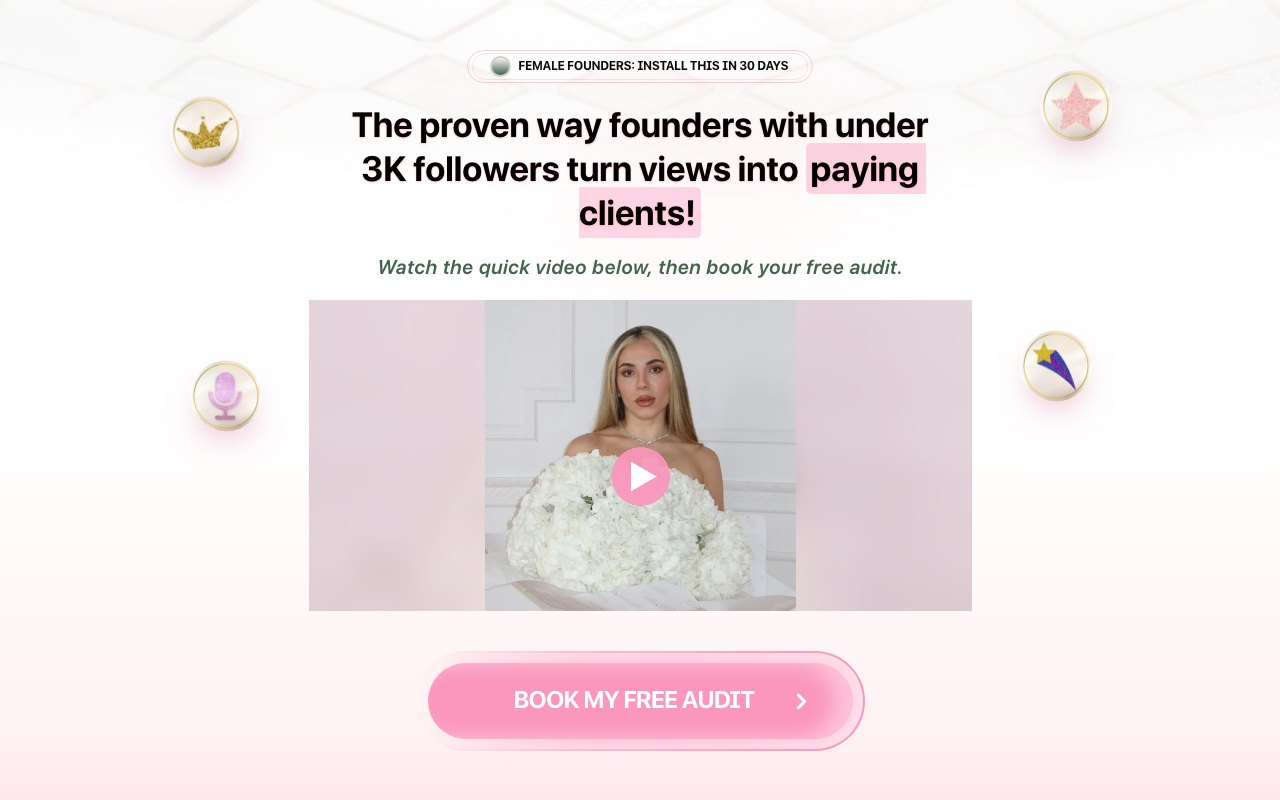
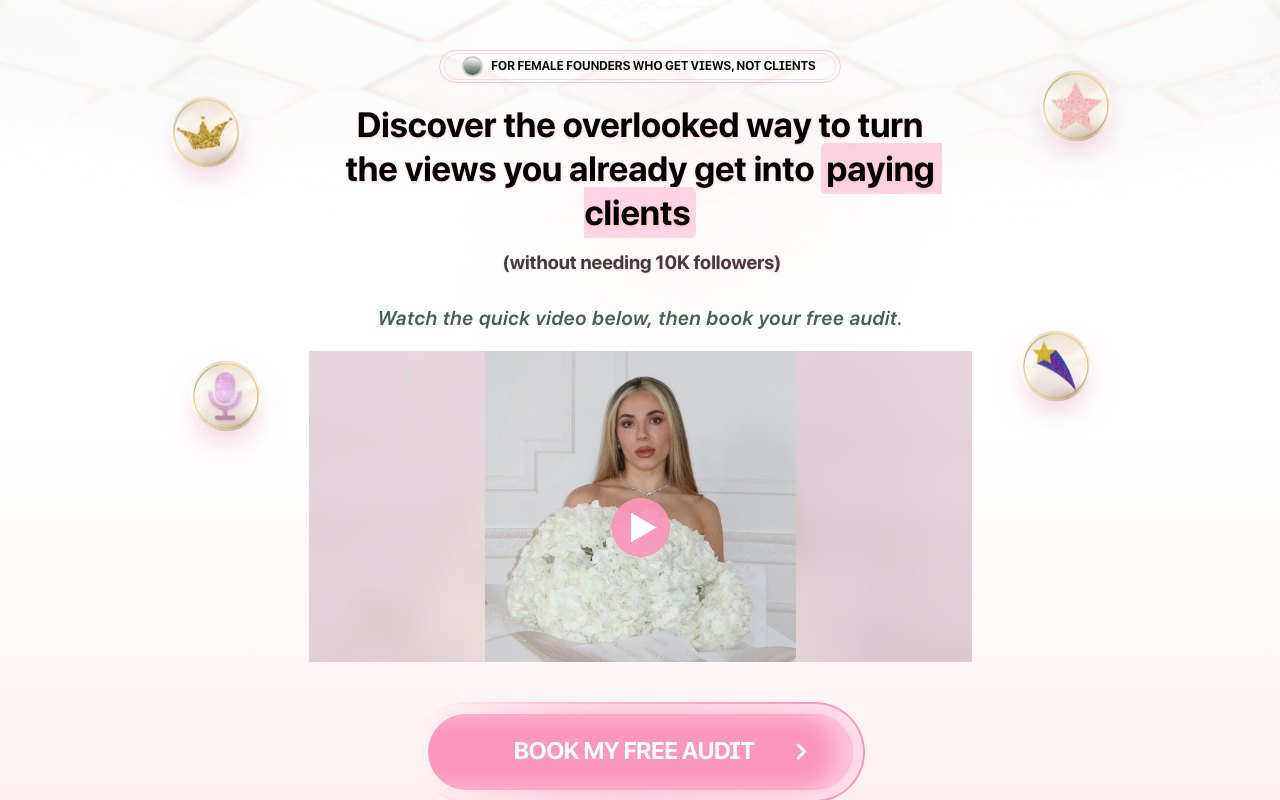
Free audit: Discover-formula headline with without-clause, new eyebrow

diff --git a/free-audit/index.html b/free-audit/index.html
@@ -7,7 +7,7 @@
 	<meta name="viewport" content="width=device-width">
 	<meta name="generator" content="Framer 31f3ac5">
 	<title>Free Audit | Rosie Purr</title>
-    <link rel="canonical" href="#"><meta property="og:url" content="#"><meta name="description" content="The proven way founders with under 3K followers turn views into paying clients. Book your free audit.">
+    <link rel="canonical" href="#"><meta property="og:url" content="#"><meta name="description" content="Discover the overlooked way to turn the views you already get into paying clients (without needing 10K followers).">
     <meta name="framer-search-index" content="https://framerusercontent.com/sites/6yKfBSsuH8x9yH6xJh1cNq/searchIndex-fbUtZZNrOviS.json">
     <meta name="framer-search-index-fallback" content="https://framerusercontent.com/sites/6yKfBSsuH8x9yH6xJh1cNq/searchIndex-cH3Bl6oN5KRv.json">
     <link href="../assets/img/favicon.png" rel="icon" media="(prefers-color-scheme: light)">
@@ -16,12 +16,12 @@
     <!-- Open Graph -->
     <meta property="og:type" content="website">
     <meta property="og:title" content="Free Audit | Rosie Purr">
-    <meta property="og:description" content="The proven way founders with under 3K followers turn views into paying clients. Book your free audit.">
+    <meta property="og:description" content="Discover the overlooked way to turn the views you already get into paying clients (without needing 10K followers).">
     <meta property="og:image" content="https://framerusercontent.com/assets/0qTz0DzgY2VKMYTz5bQiQrwBYk.png">
     <!-- X -->
     <meta name="twitter:card" content="summary_large_image">
     <meta name="twitter:title" content="Free Social Media Course">
-    <meta name="twitter:description" content="The proven way founders with under 3K followers turn views into paying clients. Book your free audit.">
+    <meta name="twitter:description" content="Discover the overlooked way to turn the views you already get into paying clients (without needing 10K followers).">
     <meta name="twitter:image" content="https://framerusercontent.com/assets/0qTz0DzgY2VKMYTz5bQiQrwBYk.png">
 	
 	
@@ -343,7 +343,7 @@
     
     <!-- End of bodyStart -->
 	
-	<div id="main" data-framer-hydrate-v2="{&quot;routeId&quot;:&quot;h5i_oXUbv&quot;,&quot;localeId&quot;:&quot;default&quot;,&quot;breakpoints&quot;:[{&quot;hash&quot;:&quot;4s8koe&quot;,&quot;mediaQuery&quot;:&quot;(min-width: 1200px)&quot;},{&quot;hash&quot;:&quot;uwvbux&quot;,&quot;mediaQuery&quot;:&quot;(min-width: 810px) and (max-width: 1199.98px)&quot;},{&quot;hash&quot;:&quot;iz4sl3&quot;,&quot;mediaQuery&quot;:&quot;(min-width: 414px) and (max-width: 809.98px)&quot;},{&quot;hash&quot;:&quot;1br1e2t&quot;,&quot;mediaQuery&quot;:&quot;(max-width: 413.98px)&quot;}]}" data-framer-ssr-released-at="2026-09-29T13:05:31.037Z" data-framer-page-optimized-at="2026-09-29T19:42:05.962Z" data-framer-generated-page><!--$--><style data-framer-html-style>html body { background: rgb(255, 255, 255); }</style><div data-framer-root class="framer-X8zpi framer-Y1jLK framer-4s8koe" style="min-height:100vh;width:auto"><div class="framer-q2tiia"><div class="framer-1xpcqbd" data-framer-name="bg shape" style="transform:rotate(-43deg)"></div></div><div class="framer-17dakj4 hidden-4s8koe hidden-uwvbux hidden-iz4sl3"><div class="framer-msisua" data-border="true"><div class="framer-1wldt96" data-border="true" data-framer-name="Alert"><div class="framer-14oqm4g" data-framer-name="Pulse"><div class="framer-1hjm7bx" data-framer-name="Small"></div><div class="framer-rq7udd" data-framer-name="Big" style="will-change:transform;opacity:0.4;transform:none"></div></div><div class="framer-1khw9ha" data-framer-component-type="RichTextContainer" style="transform:none"><p dir="auto" style="--font-selector:Q1VTVE9NVjI7U0YgUHJvIERpc3BsYXkgQm9sZA==;--framer-font-family:&quot;SF Pro Display Bold&quot;, &quot;SF Pro Display Bold Placeholder&quot;, sans-serif;--framer-font-open-type-features:'cv01' on, 'cv09' on, 'cv11' on, 'cv05' on, 'ss03' on;--framer-font-size:12px;--framer-font-weight:700;--framer-letter-spacing:0.01em;--framer-text-color:var(--token-b268148b-59de-488b-84bf-ae89da343fe3, rgb(10, 10, 10))" class="framer-text">FEMALE FOUNDERS: INSTALL THIS IN 30 DAYS</p></div></div></div></div><div class="framer-tpus61" data-framer-name="HERO"><div class="framer-1c7eb5z" data-framer-name="UPPERPART"><div class="framer-1u1eqik" data-framer-name="main"><div class="framer-3c9dne"><div class="framer-2tj5pi" data-framer-name="main"><div class="framer-csus2r"><div class="framer-efgnys" data-framer-name="main"><div class="framer-5fq69k hidden-1br1e2t" data-border="true"><div class="framer-k2ezid hidden-iz4sl3" data-border="true" data-framer-name="Alert"><div class="framer-17cyu9v" data-framer-name="Pulse"><div class="framer-1uqd4z8" data-framer-name="Small"></div><div class="framer-vag2ty" data-framer-name="Big" style="will-change:transform;opacity:0.4;transform:none"></div></div><div class="ssr-variant hidden-uwvbux"><div class="framer-bhxyn7" data-framer-component-type="RichTextContainer" style="transform:none"><p dir="auto" style="--font-selector:Q1VTVE9NVjI7U0YgUHJvIERpc3BsYXkgQm9sZA==;--framer-font-family:&quot;SF Pro Display Bold&quot;, &quot;SF Pro Display Bold Placeholder&quot;, sans-serif;--framer-font-open-type-features:'cv01' on, 'cv09' on, 'cv11' on, 'cv05' on, 'ss03' on;--framer-font-size:12px;--framer-font-weight:700;--framer-letter-spacing:0.01em;--framer-text-color:var(--token-b268148b-59de-488b-84bf-ae89da343fe3, rgb(10, 10, 10))" class="framer-text">FEMALE FOUNDERS: INSTALL THIS IN 30 DAYS</p></div></div><div class="ssr-variant hidden-iz4sl3 hidden-1br1e2t hidden-4s8koe"><div class="framer-bhxyn7" data-framer-component-type="RichTextContainer" style="transform:none"><p dir="auto" style="--font-selector:Q1VTVE9NVjI7U0YgUHJvIERpc3BsYXkgQm9sZA==;--framer-font-family:&quot;SF Pro Display Bold&quot;, &quot;SF Pro Display Bold Placeholder&quot;, sans-serif;--framer-font-open-type-features:'cv01' on, 'cv09' on, 'cv11' on, 'cv05' on, 'ss03' on;--framer-font-size:11px;--framer-font-weight:700;--framer-letter-spacing:0.01em;--framer-text-color:var(--token-b268148b-59de-488b-84bf-ae89da343fe3, rgb(10, 10, 10))" class="framer-text">FEMALE FOUNDERS: INSTALL THIS IN 30 DAYS</p></div></div></div><div class="framer-9qt16u hidden-4s8koe hidden-uwvbux" data-border="true"><div class="framer-vjqidj" data-border="true" data-framer-name="Alert"><div class="framer-1y2ulve" data-framer-name="Pulse"><div class="framer-k6xz6w" data-framer-name="Small"></div><div class="framer-11rk619" data-framer-name="Big" style="will-change:transform;opacity:0.4;transform:none"></div></div><div class="framer-1fw6d6x" data-framer-component-type="RichTextContainer" style="transform:none"><p dir="auto" style="--font-selector:Q1VTVE9NVjI7U0YgUHJvIERpc3BsYXkgQm9sZA==;--framer-font-family:&quot;SF Pro Display Bold&quot;, &quot;SF Pro Display Bold Placeholder&quot;, sans-serif;--framer-font-open-type-features:'cv01' on, 'cv09' on, 'cv11' on, 'cv05' on, 'ss03' on;--framer-font-size:12px;--framer-font-weight:700;--framer-letter-spacing:0.01em;--framer-text-color:var(--token-b268148b-59de-488b-84bf-ae89da343fe3, rgb(10, 10, 10))" class="framer-text">FEMALE FOUNDERS: INSTALL THIS IN 30 DAYS</p></div></div></div></div><div class="ssr-variant hidden-iz4sl3 hidden-1br1e2t hidden-uwvbux"><div class="framer-1u7wy1i" data-framer-name="WTITLE2" data-selection="true" data-framer-component-type="RichTextContainer" style="transform:none"><p dir="auto" style="--font-selector:Q1VTVE9NVjI7U0YgUHJvIERpc3BsYXkgQm9sZA==;--framer-font-family:&quot;SF Pro Display Bold&quot;, &quot;SF Pro Display Bold Placeholder&quot;, sans-serif;--framer-font-size:35px;--framer-font-weight:700;--framer-line-height:1.25em;--framer-text-alignment:center" class="framer-text">The proven way founders with under</p><p dir="auto" style="--font-selector:Q1VTVE9NVjI7U0YgUHJvIERpc3BsYXkgQm9sZA==;--framer-font-family:&quot;SF Pro Display Bold&quot;, &quot;SF Pro Display Bold Placeholder&quot;, sans-serif;--framer-font-size:35px;--framer-font-weight:700;--framer-line-height:1.25em;--framer-text-alignment:center" class="framer-text">3K followers turn views into <mark style="--framer-text-background-color:rgb(255, 212, 228);--framer-text-background-padding:5px;--framer-text-background-radius:5px" class="framer-text">paying clients!</mark></p></div></div><div class="ssr-variant hidden-1br1e2t hidden-uwvbux hidden-4s8koe"><div class="framer-1u7wy1i" data-framer-name="WTITLE2" data-selection="true" data-framer-component-type="RichTextContainer" style="transform:none"><p dir="auto" style="--font-selector:Q1VTVE9NVjI7U0YgUHJvIERpc3BsYXkgQm9sZA==;--framer-font-family:&quot;SF Pro Display Bold&quot;, &quot;SF Pro Display Bold Placeholder&quot;, sans-serif;--framer-font-size:27px;--framer-font-weight:700;--framer-line-height:1.25em;--framer-text-alignment:center" class="framer-text">The proven way founders with</p><p dir="auto" style="--font-selector:Q1VTVE9NVjI7U0YgUHJvIERpc3BsYXkgQm9sZA==;--framer-font-family:&quot;SF Pro Display Bold&quot;, &quot;SF Pro Display Bold Placeholder&quot;, sans-serif;--framer-font-size:27px;--framer-font-weight:700;--framer-line-height:1.25em;--framer-text-alignment:center" class="framer-text">under 3K followers turn views into <mark style="--framer-text-background-color:rgb(255, 212, 228);--framer-text-background-padding:5px;--framer-text-background-radius:5px" class="framer-text">paying clients!</mark></p></div></div><div class="ssr-variant hidden-iz4sl3 hidden-uwvbux hidden-4s8koe"><div class="framer-1u7wy1i" data-framer-name="WTITLE2" data-selection="true" data-framer-component-type="RichTextContainer" style="transform:none"><p dir="auto" style="--font-selector:Q1VTVE9NVjI7U0YgUHJvIERpc3BsYXkgQm9sZA==;--framer-font-family:&quot;SF Pro Display Bold&quot;, &quot;SF Pro Display Bold Placeholder&quot;, sans-serif;--framer-font-size:25px;--framer-font-weight:700;--framer-line-height:1.25em;--framer-text-alignment:center" class="framer-text">The proven way founders with</p><p dir="auto" style="--font-selector:Q1VTVE9NVjI7U0YgUHJvIERpc3BsYXkgQm9sZA==;--framer-font-family:&quot;SF Pro Display Bold&quot;, &quot;SF Pro Display Bold Placeholder&quot;, sans-serif;--framer-font-size:25px;--framer-font-weight:700;--framer-line-height:1.25em;--framer-text-alignment:center" class="framer-text">under 3K followers turn views into <mark style="--framer-text-background-color:rgb(255, 212, 228);--framer-text-background-padding:5px;--framer-text-background-radius:5px" class="framer-text">paying clients!</mark></p></div></div><div class="ssr-variant hidden-iz4sl3 hidden-1br1e2t hidden-4s8koe"><div class="framer-1u7wy1i" data-framer-name="WTITLE2" data-selection="true" data-framer-component-type="RichTextContainer" style="transform:none"><p dir="auto" style="--font-selector:Q1VTVE9NVjI7U0YgUHJvIERpc3BsYXkgQm9sZA==;--framer-font-family:&quot;SF Pro Display Bold&quot;, &quot;SF Pro Display Bold Placeholder&quot;, sans-serif;--framer-font-size:35px;--framer-font-weight:700;--framer-line-height:1.25em;--framer-text-alignment:center" class="framer-text">The proven way founders with under </p><p dir="auto" style="--font-selector:Q1VTVE9NVjI7U0YgUHJvIERpc3BsYXkgQm9sZA==;--framer-font-family:&quot;SF Pro Display Bold&quot;, &quot;SF Pro Display Bold Placeholder&quot;, sans-serif;--framer-font-size:35px;--framer-font-weight:700;--framer-line-height:1.25em;--framer-text-alignment:center" class="framer-text">3K followers turn views into <mark style="--framer-text-background-color:rgb(255, 212, 228);--framer-text-background-padding:5px;--framer-text-background-radius:5px" class="framer-text">paying clients!</mark></p></div></div><div class="ssr-variant hidden-iz4sl3 hidden-1br1e2t"><div class="framer-133eyea hidden-uwvbux" data-framer-name="WSUB2" data-selection="true" data-framer-component-type="RichTextContainer" style="transform:none"><p dir="auto" style="--font-selector:Q1VTVE9NVjI7U0YgUHJvIERpc3BsYXkgU2VtaWJvbGQgSXRhbGlj;--framer-font-family:&quot;SF Pro Display Semibold Italic&quot;, &quot;SF Pro Display Semibold Italic Placeholder&quot;, sans-serif;--framer-font-size:20px;--framer-font-weight:600;--framer-letter-spacing:0.03em;--framer-line-height:1.3em;--framer-text-alignment:center;--framer-text-color:var(--token-60dd54ff-967d-4bdd-a395-66d9ee4c573e, rgb(130, 150, 114))" class="framer-text">Watch the quick video below, then book your free audit.</p></div></div><div class="ssr-variant hidden-1br1e2t hidden-uwvbux hidden-4s8koe"><div class="framer-133eyea hidden-uwvbux" data-framer-name="WSUB2" data-selection="true" data-framer-component-type="RichTextContainer" style="transform:none"><p dir="auto" style="--font-selector:Q1VTVE9NVjI7U0YgUHJvIERpc3BsYXkgU2VtaWJvbGQgSXRhbGlj;--framer-font-family:&quot;SF Pro Display Semibold Italic&quot;, &quot;SF Pro Display Semibold Italic Placeholder&quot;, sans-serif;--framer-font-size:18px;--framer-font-weight:600;--framer-letter-spacing:0.03em;--framer-line-height:20px;--framer-text-alignment:center;--framer-text-color:var(--token-60dd54ff-967d-4bdd-a395-66d9ee4c573e, rgb(130, 150, 114))" class="framer-text">Watch the quick video below</p><p dir="auto" style="--font-selector:Q1VTVE9NVjI7U0YgUHJvIERpc3BsYXkgU2VtaWJvbGQgSXRhbGlj;--framer-font-family:&quot;SF Pro Display Semibold Italic&quot;, &quot;SF Pro Display Semibold Italic Placeholder&quot;, sans-serif;--framer-font-size:18px;--framer-font-weight:600;--framer-letter-spacing:0.03em;--framer-line-height:20px;--framer-text-alignment:center;--framer-text-color:var(--token-60dd54ff-967d-4bdd-a395-66d9ee4c573e, rgb(130, 150, 114))" class="framer-text">then book your free audit.</p></div></div><div class="ssr-variant hidden-iz4sl3 hidden-uwvbux hidden-4s8koe"><div class="framer-133eyea hidden-uwvbux" data-framer-name="WSUB2" data-selection="true" data-framer-component-type="RichTextContainer" style="transform:none"><p dir="auto" style="--font-selector:Q1VTVE9NVjI7U0YgUHJvIERpc3BsYXkgU2VtaWJvbGQgSXRhbGlj;--framer-font-family:&quot;SF Pro Display Semibold Italic&quot;, &quot;SF Pro Display Semibold Italic Placeholder&quot;, sans-serif;--framer-font-size:17px;--framer-font-weight:600;--framer-letter-spacing:0.03em;--framer-line-height:20px;--framer-text-alignment:center;--framer-text-color:var(--token-60dd54ff-967d-4bdd-a395-66d9ee4c573e, rgb(130, 150, 114))" class="framer-text">Watch the quick video below</p><p dir="auto" style="--font-selector:Q1VTVE9NVjI7U0YgUHJvIERpc3BsYXkgU2VtaWJvbGQgSXRhbGlj;--framer-font-family:&quot;SF Pro Display Semibold Italic&quot;, &quot;SF Pro Display Semibold Italic Placeholder&quot;, sans-serif;--framer-font-size:17px;--framer-font-weight:600;--framer-letter-spacing:0.03em;--framer-line-height:20px;--framer-text-alignment:center;--framer-text-color:var(--token-60dd54ff-967d-4bdd-a395-66d9ee4c573e, rgb(130, 150, 114))" class="framer-text">then book your free audit.</p></div></div><div class="framer-5onn8g-container" data-framer-name="main" name="main"><!--$--><div class="ssr-variant hidden-iz4sl3 hidden-1br1e2t"><img src="../assets/img/lp/vsl_thumb.jpg" alt="Watch the video" style="display:block;width:100%;height:auto;aspect-ratio:2.1333;object-fit:cover;border-radius:inherit;cursor:pointer"></div><div class="ssr-variant hidden-uwvbux hidden-4s8koe"><img src="../assets/img/lp/vsl_thumb.jpg" alt="Watch the video" style="display:block;width:100%;height:auto;aspect-ratio:2.1333;object-fit:cover;border-radius:inherit;cursor:pointer"></div><!--/$--></div><div class="framer-9o72vd hidden-4s8koe hidden-1br1e2t hidden-iz4sl3" data-framer-name="WSUB2" data-selection="true" data-framer-component-type="RichTextContainer" style="transform:none"><p dir="auto" style="--font-selector:Q1VTVE9NVjI7U0YgUHJvIERpc3BsYXkgU2VtaWJvbGQgSXRhbGlj;--framer-font-family:&quot;SF Pro Display Semibold Italic&quot;, &quot;SF Pro Display Semibold Italic Placeholder&quot;, sans-serif;--framer-font-size:20px;--framer-font-weight:600;--framer-letter-spacing:0.03em;--framer-line-height:1.3em;--framer-text-alignment:center;--framer-text-color:var(--token-60dd54ff-967d-4bdd-a395-66d9ee4c573e, rgb(130, 150, 114))" class="framer-text">Watch the quick video below, then book your free audit.</p></div></div></div></div></div></div></div><div class="framer-2bt8ym" data-framer-name="LOWERPART"><div class="framer-mkelf" id="mkelf"><div class="framer-r6ybmd"><div class="framer-km6ps3"><div class="framer-u14wqm"><div class="framer-1habm5t"><div class="ssr-variant hidden-iz4sl3 hidden-1br1e2t"><div class="framer-65of25-container" id="65of25"><!--$--><a class="framer-fKeW8 framer-1ylc52x framer-v-1ylc52x framer-1djlza1" data-framer-name="Variant 1" data-highlight="true" tabindex="0" style="background:linear-gradient(90deg, rgba(255, 255, 255, 0) 0%, rgba(251, 150, 188, 0.6) 35.63529349662162%, var(--token-78ab1caa-2397-409b-a711-af0f2c84a0c3, rgb(251, 150, 188)) 100%);border-bottom-left-radius:99999px;border-bottom-right-radius:99999px;border-top-left-radius:99999px;border-top-right-radius:99999px"><div class="framer-hbrjzz" style="background:linear-gradient(270deg, rgb(255, 204, 224) 0%, rgba(240, 227, 225, 0) 100%);border-bottom-left-radius:99999px;border-bottom-right-radius:99999px;border-top-left-radius:99999px;border-top-right-radius:99999px;box-shadow:inset -1px 0px 26px 4px rgba(255, 245, 245, 0.71)"><div class="framer-5opsfe" style="background-color:var(--token-78ab1caa-2397-409b-a711-af0f2c84a0c3, rgb(216, 149, 155));border-bottom-left-radius:99999px;border-bottom-right-radius:99999px;border-top-left-radius:99999px;border-top-right-radius:99999px;box-shadow:inset -17px 0px 21px 1px rgba(255, 255, 255, 0.44)"><div class="framer-1hrjr2s"><div class="framer-w7ozlh" data-framer-component-type="RichTextContainer" style="--extracted-1of0zx5:rgb(255, 255, 255);--framer-link-text-color:rgb(0, 153, 255);--framer-link-text-decoration:underline;transform:translate(-50%, -50%)"><h2 dir="auto" class="framer-text" style="--font-selector:Q1VTVE9NVjI7U0YgUHJvIERpc3BsYXkgQm9sZA==;--framer-font-family:&quot;SF Pro Display Bold&quot;, &quot;SF Pro Display Bold Placeholder&quot;, sans-serif;--framer-font-open-type-features:'cv01' on, 'cv09' on, 'cv11' on, 'cv05' on, 'ss03' on;--framer-font-size:24px;--framer-font-weight:700;--framer-letter-spacing:-0.02em;--framer-line-height:1em;--framer-text-alignment:center;--framer-text-color:var(--extracted-1of0zx5, rgb(255, 255, 255))">BOOK MY FREE AUDIT</h2></div><div data-framer-component-type="SVG" parentsize="0" _constraints="[object Object]" rotation="0" shadows class="framer-12bnssz" aria-hidden="true" style="image-rendering:pixelated;flex-shrink:0;fill:rgb(255, 255, 255);color:rgb(255, 255, 255)"><div class="svgContainer" style="width:100%;height:100%;aspect-ratio:inherit"><svg style="width:100%;height:100%;"><use href="#svg-866811255_189"/></svg></div></div><div data-framer-component-type="SVG" parentsize="0" _constraints="[object Object]" rotation="0" shadows class="framer-dgrylw" aria-hidden="true" style="image-rendering:pixelated;flex-shrink:0;fill:var(--token-1ee6d819-e713-432d-a5bd-cf23d9294804, rgb(234, 234, 234));color:var(--token-1ee6d819-e713-432d-a5bd-cf23d9294804, rgb(234, 234, 234))"><div class="svgContainer" style="width:100%;height:100%;aspect-ratio:inherit"><svg style="width:100%;height:100%;"><use href="#svg-866811255_189"/></svg></div></div></div></div></div></a><!--/$--></div></div><div class="ssr-variant hidden-uwvbux hidden-4s8koe"><div class="framer-65of25-container" id="65of25"><!--$--><a class="framer-fKeW8 framer-1ylc52x framer-v-15c24n7 framer-1djlza1" data-framer-name="Mobile" data-highlight="true" tabindex="0" style="background:linear-gradient(90deg, rgba(255, 255, 255, 0) 0%, rgba(251, 150, 188, 0.6) 35.63529349662162%, var(--token-78ab1caa-2397-409b-a711-af0f2c84a0c3, rgb(251, 150, 188)) 100%);border-bottom-left-radius:99999px;border-bottom-right-radius:99999px;border-top-left-radius:99999px;border-top-right-radius:99999px"><div class="framer-hbrjzz" style="background:linear-gradient(270deg, rgb(255, 204, 224) 0%, rgba(240, 227, 225, 0) 100%);border-bottom-left-radius:99999px;border-bottom-right-radius:99999px;border-top-left-radius:99999px;border-top-right-radius:99999px;box-shadow:inset -1px 0px 26px 4px rgba(255, 245, 245, 0.71)"><div class="framer-5opsfe" style="background-color:var(--token-78ab1caa-2397-409b-a711-af0f2c84a0c3, rgb(216, 149, 155));border-bottom-left-radius:99999px;border-bottom-right-radius:99999px;border-top-left-radius:99999px;border-top-right-radius:99999px;box-shadow:inset -17px 0px 21px 1px rgba(255, 255, 255, 0.44)"><div class="framer-1hrjr2s"><div class="framer-w7ozlh" data-framer-component-type="RichTextContainer" style="--extracted-1of0zx5:rgb(255, 255, 255);--framer-link-text-color:rgb(0, 153, 255);--framer-link-text-decoration:underline;transform:translate(-50%, -50%)"><h2 dir="auto" class="framer-text" style="--font-selector:Q1VTVE9NVjI7U0YgUHJvIERpc3BsYXkgQm9sZA==;--framer-font-family:&quot;SF Pro Display Bold&quot;, &quot;SF Pro Display Bold Placeholder&quot;, sans-serif;--framer-font-open-type-features:'cv01' on, 'cv09' on, 'cv11' on, 'cv05' on, 'ss03' on;--framer-font-size:22px;--framer-font-weight:700;--framer-letter-spacing:-0.02em;--framer-line-height:1em;--framer-text-alignment:center;--framer-text-color:var(--extracted-1of0zx5, rgb(255, 255, 255))">BOOK MY FREE AUDIT</h2></div><div data-framer-component-type="SVG" parentsize="0" _constraints="[object Object]" rotation="0" shadows class="framer-12bnssz" aria-hidden="true" style="image-rendering:pixelated;flex-shrink:0;fill:rgb(255, 255, 255);color:rgb(255, 255, 255)"><div class="svgContainer" style="width:100%;height:100%;aspect-ratio:inherit"><svg style="width:100%;height:100%;"><use href="#svg-866811255_189"/></svg></div></div></div></div></div></a><!--/$--></div></div></div></div></div></div></div></div></div><div class="framer-1kycvi1 hidden-4s8koe hidden-uwvbux"><div class="framer-gh8c0y"><div class="framer-9itru8" data-framer-name="bg shape" style="transform:rotate(-43deg)"></div></div></div><div class="framer-pqhicm" style="transform:translateX(-50%)"><div class="framer-1l29gjx" data-framer-name="bg shape" style="transform:rotate(-43deg)"></div></div><div class="framer-10c3wkd"><div class="framer-1la01sa" data-framer-name="bg shape" style="transform:rotate(-43deg)"></div></div><section class="rp-more">
+	<div id="main" data-framer-hydrate-v2="{&quot;routeId&quot;:&quot;h5i_oXUbv&quot;,&quot;localeId&quot;:&quot;default&quot;,&quot;breakpoints&quot;:[{&quot;hash&quot;:&quot;4s8koe&quot;,&quot;mediaQuery&quot;:&quot;(min-width: 1200px)&quot;},{&quot;hash&quot;:&quot;uwvbux&quot;,&quot;mediaQuery&quot;:&quot;(min-width: 810px) and (max-width: 1199.98px)&quot;},{&quot;hash&quot;:&quot;iz4sl3&quot;,&quot;mediaQuery&quot;:&quot;(min-width: 414px) and (max-width: 809.98px)&quot;},{&quot;hash&quot;:&quot;1br1e2t&quot;,&quot;mediaQuery&quot;:&quot;(max-width: 413.98px)&quot;}]}" data-framer-ssr-released-at="2026-09-29T13:05:31.037Z" data-framer-page-optimized-at="2026-09-29T19:42:05.962Z" data-framer-generated-page><!--$--><style data-framer-html-style>html body { background: rgb(255, 255, 255); }</style><div data-framer-root class="framer-X8zpi framer-Y1jLK framer-4s8koe" style="min-height:100vh;width:auto"><div class="framer-q2tiia"><div class="framer-1xpcqbd" data-framer-name="bg shape" style="transform:rotate(-43deg)"></div></div><div class="framer-17dakj4 hidden-4s8koe hidden-uwvbux hidden-iz4sl3"><div class="framer-msisua" data-border="true"><div class="framer-1wldt96" data-border="true" data-framer-name="Alert"><div class="framer-14oqm4g" data-framer-name="Pulse"><div class="framer-1hjm7bx" data-framer-name="Small"></div><div class="framer-rq7udd" data-framer-name="Big" style="will-change:transform;opacity:0.4;transform:none"></div></div><div class="framer-1khw9ha" data-framer-component-type="RichTextContainer" style="transform:none"><p dir="auto" style="--font-selector:Q1VTVE9NVjI7U0YgUHJvIERpc3BsYXkgQm9sZA==;--framer-font-family:&quot;SF Pro Display Bold&quot;, &quot;SF Pro Display Bold Placeholder&quot;, sans-serif;--framer-font-open-type-features:'cv01' on, 'cv09' on, 'cv11' on, 'cv05' on, 'ss03' on;--framer-font-size:12px;--framer-font-weight:700;--framer-letter-spacing:0.01em;--framer-text-color:var(--token-b268148b-59de-488b-84bf-ae89da343fe3, rgb(10, 10, 10))" class="framer-text">FOR FEMALE FOUNDERS WHO GET VIEWS, NOT CLIENTS</p></div></div></div></div><div class="framer-tpus61" data-framer-name="HERO"><div class="framer-1c7eb5z" data-framer-name="UPPERPART"><div class="framer-1u1eqik" data-framer-name="main"><div class="framer-3c9dne"><div class="framer-2tj5pi" data-framer-name="main"><div class="framer-csus2r"><div class="framer-efgnys" data-framer-name="main"><div class="framer-5fq69k hidden-1br1e2t" data-border="true"><div class="framer-k2ezid hidden-iz4sl3" data-border="true" data-framer-name="Alert"><div class="framer-17cyu9v" data-framer-name="Pulse"><div class="framer-1uqd4z8" data-framer-name="Small"></div><div class="framer-vag2ty" data-framer-name="Big" style="will-change:transform;opacity:0.4;transform:none"></div></div><div class="ssr-variant hidden-uwvbux"><div class="framer-bhxyn7" data-framer-component-type="RichTextContainer" style="transform:none"><p dir="auto" style="--font-selector:Q1VTVE9NVjI7U0YgUHJvIERpc3BsYXkgQm9sZA==;--framer-font-family:&quot;SF Pro Display Bold&quot;, &quot;SF Pro Display Bold Placeholder&quot;, sans-serif;--framer-font-open-type-features:'cv01' on, 'cv09' on, 'cv11' on, 'cv05' on, 'ss03' on;--framer-font-size:12px;--framer-font-weight:700;--framer-letter-spacing:0.01em;--framer-text-color:var(--token-b268148b-59de-488b-84bf-ae89da343fe3, rgb(10, 10, 10))" class="framer-text">FOR FEMALE FOUNDERS WHO GET VIEWS, NOT CLIENTS</p></div></div><div class="ssr-variant hidden-iz4sl3 hidden-1br1e2t hidden-4s8koe"><div class="framer-bhxyn7" data-framer-component-type="RichTextContainer" style="transform:none"><p dir="auto" style="--font-selector:Q1VTVE9NVjI7U0YgUHJvIERpc3BsYXkgQm9sZA==;--framer-font-family:&quot;SF Pro Display Bold&quot;, &quot;SF Pro Display Bold Placeholder&quot;, sans-serif;--framer-font-open-type-features:'cv01' on, 'cv09' on, 'cv11' on, 'cv05' on, 'ss03' on;--framer-font-size:11px;--framer-font-weight:700;--framer-letter-spacing:0.01em;--framer-text-color:var(--token-b268148b-59de-488b-84bf-ae89da343fe3, rgb(10, 10, 10))" class="framer-text">FOR FEMALE FOUNDERS WHO GET VIEWS, NOT CLIENTS</p></div></div></div><div class="framer-9qt16u hidden-4s8koe hidden-uwvbux" data-border="true"><div class="framer-vjqidj" data-border="true" data-framer-name="Alert"><div class="framer-1y2ulve" data-framer-name="Pulse"><div class="framer-k6xz6w" data-framer-name="Small"></div><div class="framer-11rk619" data-framer-name="Big" style="will-change:transform;opacity:0.4;transform:none"></div></div><div class="framer-1fw6d6x" data-framer-component-type="RichTextContainer" style="transform:none"><p dir="auto" style="--font-selector:Q1VTVE9NVjI7U0YgUHJvIERpc3BsYXkgQm9sZA==;--framer-font-family:&quot;SF Pro Display Bold&quot;, &quot;SF Pro Display Bold Placeholder&quot;, sans-serif;--framer-font-open-type-features:'cv01' on, 'cv09' on, 'cv11' on, 'cv05' on, 'ss03' on;--framer-font-size:12px;--framer-font-weight:700;--framer-letter-spacing:0.01em;--framer-text-color:var(--token-b268148b-59de-488b-84bf-ae89da343fe3, rgb(10, 10, 10))" class="framer-text">FOR FEMALE FOUNDERS WHO GET VIEWS, NOT CLIENTS</p></div></div></div></div><div class="ssr-variant hidden-iz4sl3 hidden-1br1e2t hidden-uwvbux"><div class="framer-1u7wy1i" data-framer-name="WTITLE2" data-selection="true" data-framer-component-type="RichTextContainer" style="transform:none"><p dir="auto" style="--font-selector:Q1VTVE9NVjI7U0YgUHJvIERpc3BsYXkgQm9sZA==;--framer-font-family:&quot;SF Pro Display Bold&quot;, &quot;SF Pro Display Bold Placeholder&quot;, sans-serif;--framer-font-size:35px;--framer-font-weight:700;--framer-line-height:1.25em;--framer-text-alignment:center" class="framer-text">Discover the overlooked way to turn</p><p dir="auto" style="--font-selector:Q1VTVE9NVjI7U0YgUHJvIERpc3BsYXkgQm9sZA==;--framer-font-family:&quot;SF Pro Display Bold&quot;, &quot;SF Pro Display Bold Placeholder&quot;, sans-serif;--framer-font-size:35px;--framer-font-weight:700;--framer-line-height:1.25em;--framer-text-alignment:center" class="framer-text">the views you already get into <mark style="--framer-text-background-color:rgb(255, 212, 228);--framer-text-background-padding:5px;--framer-text-background-radius:5px" class="framer-text">paying clients</mark><span class="rp-wo"> (without needing 10K followers)</span></p></div></div><div class="ssr-variant hidden-1br1e2t hidden-uwvbux hidden-4s8koe"><div class="framer-1u7wy1i" data-framer-name="WTITLE2" data-selection="true" data-framer-component-type="RichTextContainer" style="transform:none"><p dir="auto" style="--font-selector:Q1VTVE9NVjI7U0YgUHJvIERpc3BsYXkgQm9sZA==;--framer-font-family:&quot;SF Pro Display Bold&quot;, &quot;SF Pro Display Bold Placeholder&quot;, sans-serif;--framer-font-size:27px;--framer-font-weight:700;--framer-line-height:1.25em;--framer-text-alignment:center" class="framer-text">Discover the overlooked way</p><p dir="auto" style="--font-selector:Q1VTVE9NVjI7U0YgUHJvIERpc3BsYXkgQm9sZA==;--framer-font-family:&quot;SF Pro Display Bold&quot;, &quot;SF Pro Display Bold Placeholder&quot;, sans-serif;--framer-font-size:27px;--framer-font-weight:700;--framer-line-height:1.25em;--framer-text-alignment:center" class="framer-text">to turn the views you already get into <mark style="--framer-text-background-color:rgb(255, 212, 228);--framer-text-background-padding:5px;--framer-text-background-radius:5px" class="framer-text">paying clients</mark><span class="rp-wo"> (without needing 10K followers)</span></p></div></div><div class="ssr-variant hidden-iz4sl3 hidden-uwvbux hidden-4s8koe"><div class="framer-1u7wy1i" data-framer-name="WTITLE2" data-selection="true" data-framer-component-type="RichTextContainer" style="transform:none"><p dir="auto" style="--font-selector:Q1VTVE9NVjI7U0YgUHJvIERpc3BsYXkgQm9sZA==;--framer-font-family:&quot;SF Pro Display Bold&quot;, &quot;SF Pro Display Bold Placeholder&quot;, sans-serif;--framer-font-size:25px;--framer-font-weight:700;--framer-line-height:1.25em;--framer-text-alignment:center" class="framer-text">Discover the overlooked way</p><p dir="auto" style="--font-selector:Q1VTVE9NVjI7U0YgUHJvIERpc3BsYXkgQm9sZA==;--framer-font-family:&quot;SF Pro Display Bold&quot;, &quot;SF Pro Display Bold Placeholder&quot;, sans-serif;--framer-font-size:25px;--framer-font-weight:700;--framer-line-height:1.25em;--framer-text-alignment:center" class="framer-text">to turn the views you already get into <mark style="--framer-text-background-color:rgb(255, 212, 228);--framer-text-background-padding:5px;--framer-text-background-radius:5px" class="framer-text">paying clients</mark><span class="rp-wo"> (without needing 10K followers)</span></p></div></div><div class="ssr-variant hidden-iz4sl3 hidden-1br1e2t hidden-4s8koe"><div class="framer-1u7wy1i" data-framer-name="WTITLE2" data-selection="true" data-framer-component-type="RichTextContainer" style="transform:none"><p dir="auto" style="--font-selector:Q1VTVE9NVjI7U0YgUHJvIERpc3BsYXkgQm9sZA==;--framer-font-family:&quot;SF Pro Display Bold&quot;, &quot;SF Pro Display Bold Placeholder&quot;, sans-serif;--framer-font-size:35px;--framer-font-weight:700;--framer-line-height:1.25em;--framer-text-alignment:center" class="framer-text">Discover the overlooked way to turn </p><p dir="auto" style="--font-selector:Q1VTVE9NVjI7U0YgUHJvIERpc3BsYXkgQm9sZA==;--framer-font-family:&quot;SF Pro Display Bold&quot;, &quot;SF Pro Display Bold Placeholder&quot;, sans-serif;--framer-font-size:35px;--framer-font-weight:700;--framer-line-height:1.25em;--framer-text-alignment:center" class="framer-text">the views you already get into <mark style="--framer-text-background-color:rgb(255, 212, 228);--framer-text-background-padding:5px;--framer-text-background-radius:5px" class="framer-text">paying clients</mark><span class="rp-wo"> (without needing 10K followers)</span></p></div></div><div class="ssr-variant hidden-iz4sl3 hidden-1br1e2t"><div class="framer-133eyea hidden-uwvbux" data-framer-name="WSUB2" data-selection="true" data-framer-component-type="RichTextContainer" style="transform:none"><p dir="auto" style="--font-selector:Q1VTVE9NVjI7U0YgUHJvIERpc3BsYXkgU2VtaWJvbGQgSXRhbGlj;--framer-font-family:&quot;SF Pro Display Semibold Italic&quot;, &quot;SF Pro Display Semibold Italic Placeholder&quot;, sans-serif;--framer-font-size:20px;--framer-font-weight:600;--framer-letter-spacing:0.03em;--framer-line-height:1.3em;--framer-text-alignment:center;--framer-text-color:var(--token-60dd54ff-967d-4bdd-a395-66d9ee4c573e, rgb(130, 150, 114))" class="framer-text">Watch the quick video below, then book your free audit.</p></div></div><div class="ssr-variant hidden-1br1e2t hidden-uwvbux hidden-4s8koe"><div class="framer-133eyea hidden-uwvbux" data-framer-name="WSUB2" data-selection="true" data-framer-component-type="RichTextContainer" style="transform:none"><p dir="auto" style="--font-selector:Q1VTVE9NVjI7U0YgUHJvIERpc3BsYXkgU2VtaWJvbGQgSXRhbGlj;--framer-font-family:&quot;SF Pro Display Semibold Italic&quot;, &quot;SF Pro Display Semibold Italic Placeholder&quot;, sans-serif;--framer-font-size:18px;--framer-font-weight:600;--framer-letter-spacing:0.03em;--framer-line-height:20px;--framer-text-alignment:center;--framer-text-color:var(--token-60dd54ff-967d-4bdd-a395-66d9ee4c573e, rgb(130, 150, 114))" class="framer-text">Watch the quick video below</p><p dir="auto" style="--font-selector:Q1VTVE9NVjI7U0YgUHJvIERpc3BsYXkgU2VtaWJvbGQgSXRhbGlj;--framer-font-family:&quot;SF Pro Display Semibold Italic&quot;, &quot;SF Pro Display Semibold Italic Placeholder&quot;, sans-serif;--framer-font-size:18px;--framer-font-weight:600;--framer-letter-spacing:0.03em;--framer-line-height:20px;--framer-text-alignment:center;--framer-text-color:var(--token-60dd54ff-967d-4bdd-a395-66d9ee4c573e, rgb(130, 150, 114))" class="framer-text">then book your free audit.</p></div></div><div class="ssr-variant hidden-iz4sl3 hidden-uwvbux hidden-4s8koe"><div class="framer-133eyea hidden-uwvbux" data-framer-name="WSUB2" data-selection="true" data-framer-component-type="RichTextContainer" style="transform:none"><p dir="auto" style="--font-selector:Q1VTVE9NVjI7U0YgUHJvIERpc3BsYXkgU2VtaWJvbGQgSXRhbGlj;--framer-font-family:&quot;SF Pro Display Semibold Italic&quot;, &quot;SF Pro Display Semibold Italic Placeholder&quot;, sans-serif;--framer-font-size:17px;--framer-font-weight:600;--framer-letter-spacing:0.03em;--framer-line-height:20px;--framer-text-alignment:center;--framer-text-color:var(--token-60dd54ff-967d-4bdd-a395-66d9ee4c573e, rgb(130, 150, 114))" class="framer-text">Watch the quick video below</p><p dir="auto" style="--font-selector:Q1VTVE9NVjI7U0YgUHJvIERpc3BsYXkgU2VtaWJvbGQgSXRhbGlj;--framer-font-family:&quot;SF Pro Display Semibold Italic&quot;, &quot;SF Pro Display Semibold Italic Placeholder&quot;, sans-serif;--framer-font-size:17px;--framer-font-weight:600;--framer-letter-spacing:0.03em;--framer-line-height:20px;--framer-text-alignment:center;--framer-text-color:var(--token-60dd54ff-967d-4bdd-a395-66d9ee4c573e, rgb(130, 150, 114))" class="framer-text">then book your free audit.</p></div></div><div class="framer-5onn8g-container" data-framer-name="main" name="main"><!--$--><div class="ssr-variant hidden-iz4sl3 hidden-1br1e2t"><img src="../assets/img/lp/vsl_thumb.jpg" alt="Watch the video" style="display:block;width:100%;height:auto;aspect-ratio:2.1333;object-fit:cover;border-radius:inherit;cursor:pointer"></div><div class="ssr-variant hidden-uwvbux hidden-4s8koe"><img src="../assets/img/lp/vsl_thumb.jpg" alt="Watch the video" style="display:block;width:100%;height:auto;aspect-ratio:2.1333;object-fit:cover;border-radius:inherit;cursor:pointer"></div><!--/$--></div><div class="framer-9o72vd hidden-4s8koe hidden-1br1e2t hidden-iz4sl3" data-framer-name="WSUB2" data-selection="true" data-framer-component-type="RichTextContainer" style="transform:none"><p dir="auto" style="--font-selector:Q1VTVE9NVjI7U0YgUHJvIERpc3BsYXkgU2VtaWJvbGQgSXRhbGlj;--framer-font-family:&quot;SF Pro Display Semibold Italic&quot;, &quot;SF Pro Display Semibold Italic Placeholder&quot;, sans-serif;--framer-font-size:20px;--framer-font-weight:600;--framer-letter-spacing:0.03em;--framer-line-height:1.3em;--framer-text-alignment:center;--framer-text-color:var(--token-60dd54ff-967d-4bdd-a395-66d9ee4c573e, rgb(130, 150, 114))" class="framer-text">Watch the quick video below, then book your free audit.</p></div></div></div></div></div></div></div><div class="framer-2bt8ym" data-framer-name="LOWERPART"><div class="framer-mkelf" id="mkelf"><div class="framer-r6ybmd"><div class="framer-km6ps3"><div class="framer-u14wqm"><div class="framer-1habm5t"><div class="ssr-variant hidden-iz4sl3 hidden-1br1e2t"><div class="framer-65of25-container" id="65of25"><!--$--><a class="framer-fKeW8 framer-1ylc52x framer-v-1ylc52x framer-1djlza1" data-framer-name="Variant 1" data-highlight="true" tabindex="0" style="background:linear-gradient(90deg, rgba(255, 255, 255, 0) 0%, rgba(251, 150, 188, 0.6) 35.63529349662162%, var(--token-78ab1caa-2397-409b-a711-af0f2c84a0c3, rgb(251, 150, 188)) 100%);border-bottom-left-radius:99999px;border-bottom-right-radius:99999px;border-top-left-radius:99999px;border-top-right-radius:99999px"><div class="framer-hbrjzz" style="background:linear-gradient(270deg, rgb(255, 204, 224) 0%, rgba(240, 227, 225, 0) 100%);border-bottom-left-radius:99999px;border-bottom-right-radius:99999px;border-top-left-radius:99999px;border-top-right-radius:99999px;box-shadow:inset -1px 0px 26px 4px rgba(255, 245, 245, 0.71)"><div class="framer-5opsfe" style="background-color:var(--token-78ab1caa-2397-409b-a711-af0f2c84a0c3, rgb(216, 149, 155));border-bottom-left-radius:99999px;border-bottom-right-radius:99999px;border-top-left-radius:99999px;border-top-right-radius:99999px;box-shadow:inset -17px 0px 21px 1px rgba(255, 255, 255, 0.44)"><div class="framer-1hrjr2s"><div class="framer-w7ozlh" data-framer-component-type="RichTextContainer" style="--extracted-1of0zx5:rgb(255, 255, 255);--framer-link-text-color:rgb(0, 153, 255);--framer-link-text-decoration:underline;transform:translate(-50%, -50%)"><h2 dir="auto" class="framer-text" style="--font-selector:Q1VTVE9NVjI7U0YgUHJvIERpc3BsYXkgQm9sZA==;--framer-font-family:&quot;SF Pro Display Bold&quot;, &quot;SF Pro Display Bold Placeholder&quot;, sans-serif;--framer-font-open-type-features:'cv01' on, 'cv09' on, 'cv11' on, 'cv05' on, 'ss03' on;--framer-font-size:24px;--framer-font-weight:700;--framer-letter-spacing:-0.02em;--framer-line-height:1em;--framer-text-alignment:center;--framer-text-color:var(--extracted-1of0zx5, rgb(255, 255, 255))">BOOK MY FREE AUDIT</h2></div><div data-framer-component-type="SVG" parentsize="0" _constraints="[object Object]" rotation="0" shadows class="framer-12bnssz" aria-hidden="true" style="image-rendering:pixelated;flex-shrink:0;fill:rgb(255, 255, 255);color:rgb(255, 255, 255)"><div class="svgContainer" style="width:100%;height:100%;aspect-ratio:inherit"><svg style="width:100%;height:100%;"><use href="#svg-866811255_189"/></svg></div></div><div data-framer-component-type="SVG" parentsize="0" _constraints="[object Object]" rotation="0" shadows class="framer-dgrylw" aria-hidden="true" style="image-rendering:pixelated;flex-shrink:0;fill:var(--token-1ee6d819-e713-432d-a5bd-cf23d9294804, rgb(234, 234, 234));color:var(--token-1ee6d819-e713-432d-a5bd-cf23d9294804, rgb(234, 234, 234))"><div class="svgContainer" style="width:100%;height:100%;aspect-ratio:inherit"><svg style="width:100%;height:100%;"><use href="#svg-866811255_189"/></svg></div></div></div></div></div></a><!--/$--></div></div><div class="ssr-variant hidden-uwvbux hidden-4s8koe"><div class="framer-65of25-container" id="65of25"><!--$--><a class="framer-fKeW8 framer-1ylc52x framer-v-15c24n7 framer-1djlza1" data-framer-name="Mobile" data-highlight="true" tabindex="0" style="background:linear-gradient(90deg, rgba(255, 255, 255, 0) 0%, rgba(251, 150, 188, 0.6) 35.63529349662162%, var(--token-78ab1caa-2397-409b-a711-af0f2c84a0c3, rgb(251, 150, 188)) 100%);border-bottom-left-radius:99999px;border-bottom-right-radius:99999px;border-top-left-radius:99999px;border-top-right-radius:99999px"><div class="framer-hbrjzz" style="background:linear-gradient(270deg, rgb(255, 204, 224) 0%, rgba(240, 227, 225, 0) 100%);border-bottom-left-radius:99999px;border-bottom-right-radius:99999px;border-top-left-radius:99999px;border-top-right-radius:99999px;box-shadow:inset -1px 0px 26px 4px rgba(255, 245, 245, 0.71)"><div class="framer-5opsfe" style="background-color:var(--token-78ab1caa-2397-409b-a711-af0f2c84a0c3, rgb(216, 149, 155));border-bottom-left-radius:99999px;border-bottom-right-radius:99999px;border-top-left-radius:99999px;border-top-right-radius:99999px;box-shadow:inset -17px 0px 21px 1px rgba(255, 255, 255, 0.44)"><div class="framer-1hrjr2s"><div class="framer-w7ozlh" data-framer-component-type="RichTextContainer" style="--extracted-1of0zx5:rgb(255, 255, 255);--framer-link-text-color:rgb(0, 153, 255);--framer-link-text-decoration:underline;transform:translate(-50%, -50%)"><h2 dir="auto" class="framer-text" style="--font-selector:Q1VTVE9NVjI7U0YgUHJvIERpc3BsYXkgQm9sZA==;--framer-font-family:&quot;SF Pro Display Bold&quot;, &quot;SF Pro Display Bold Placeholder&quot;, sans-serif;--framer-font-open-type-features:'cv01' on, 'cv09' on, 'cv11' on, 'cv05' on, 'ss03' on;--framer-font-size:22px;--framer-font-weight:700;--framer-letter-spacing:-0.02em;--framer-line-height:1em;--framer-text-alignment:center;--framer-text-color:var(--extracted-1of0zx5, rgb(255, 255, 255))">BOOK MY FREE AUDIT</h2></div><div data-framer-component-type="SVG" parentsize="0" _constraints="[object Object]" rotation="0" shadows class="framer-12bnssz" aria-hidden="true" style="image-rendering:pixelated;flex-shrink:0;fill:rgb(255, 255, 255);color:rgb(255, 255, 255)"><div class="svgContainer" style="width:100%;height:100%;aspect-ratio:inherit"><svg style="width:100%;height:100%;"><use href="#svg-866811255_189"/></svg></div></div></div></div></div></a><!--/$--></div></div></div></div></div></div></div></div></div><div class="framer-1kycvi1 hidden-4s8koe hidden-uwvbux"><div class="framer-gh8c0y"><div class="framer-9itru8" data-framer-name="bg shape" style="transform:rotate(-43deg)"></div></div></div><div class="framer-pqhicm" style="transform:translateX(-50%)"><div class="framer-1l29gjx" data-framer-name="bg shape" style="transform:rotate(-43deg)"></div></div><div class="framer-10c3wkd"><div class="framer-1la01sa" data-framer-name="bg shape" style="transform:rotate(-43deg)"></div></div><section class="rp-more">
 <div class="rp-sec">
   <h2 class="rp-h"><span>THE NUMBERS BEHIND</span><span class="g">THE SYSTEM</span></h2>
   <div class="rp-stats">
@@ -383,7 +383,7 @@
 </div>
 </section>
 <style>
-.rp-more{margin-top:-106px}@media (min-width:810px) and (max-width:1199.98px){.rp-more{margin-top:-38px}}@media (max-width:809.98px){.rp-more{order:21;margin-top:-68px}}.rp-more{position:relative;z-index:2;width:100%;display:flex;flex-direction:column;align-items:center;gap:22px;padding:0 max(16px,env(safe-area-inset-left)) 40px;box-sizing:border-box;font-family:"Inter","Inter Placeholder",sans-serif;color:#0a0a0a}
+@media (max-width:413.98px){.framer-1khw9ha p{font-size:10.5px!important;letter-spacing:0!important}}.rp-wo{display:block;font-size:.55em;font-weight:600;opacity:.75;margin-top:.35em}.rp-more{margin-top:-106px}@media (min-width:810px) and (max-width:1199.98px){.rp-more{margin-top:-38px}}@media (max-width:809.98px){.rp-more{order:21;margin-top:-68px}}.rp-more{position:relative;z-index:2;width:100%;display:flex;flex-direction:column;align-items:center;gap:22px;padding:0 max(16px,env(safe-area-inset-left)) 40px;box-sizing:border-box;font-family:"Inter","Inter Placeholder",sans-serif;color:#0a0a0a}
 .rp-sec{width:100%;max-width:940px;box-sizing:border-box;background:#fff7f9;border-radius:32px;padding:clamp(28px,5vw,56px) clamp(18px,5vw,64px);text-align:center;box-shadow:0 20px 60px -40px rgba(219,120,160,.6)}
 .rp-h{margin:0 0 26px;font:400 clamp(26px,4.4vw,45px)/1.25 "Integral CF Regular","Integral CF Regular Placeholder",sans-serif;display:flex;flex-direction:column}
 .rp-h .g,.rp-h2 .g{background:linear-gradient(90deg,#ffc1d6,#ff9ebb);-webkit-background-clip:text;background-clip:text;color:transparent}

diff --git a/index.html b/index.html
@@ -212,8 +212,8 @@
             <span class="group__rule"></span>
           </div>
           <div class="grid grid--2">
-            <button class="pcard reveal" data-title="Free audit page" data-embed="free-audit/?v=10">
-              <span class="thumb"><span class="thumb__bar"><i></i><i></i><i></i><span class="thumb__url">your link in bio</span></span><img class="thumb__img" src="assets/img/freeaudit-preview.jpg?v=7" alt="Free audit page preview" loading="lazy" /></span>
+            <button class="pcard reveal" data-title="Free audit page" data-embed="free-audit/?v=11">
+              <span class="thumb"><span class="thumb__bar"><i></i><i></i><i></i><span class="thumb__url">your link in bio</span></span><img class="thumb__img" src="assets/img/freeaudit-preview.jpg?v=8" alt="Free audit page preview" loading="lazy" /></span>
               <span class="pcard__body"><span><span class="pcard__kicker">02 · Your link in bio</span><span class="pcard__title">Free audit page</span><span class="pcard__desc">Your video on top, what we cover on the audit, how to book it and your clients&rsquo; wins. One button everywhere: Book my free audit.</span></span><span class="pcard__link">Open preview <span class="arrow" aria-hidden="true"></span></span></span>
             </button>
             <button class="pcard reveal" data-title="Booked call page" data-embed="booked/?v=3">
